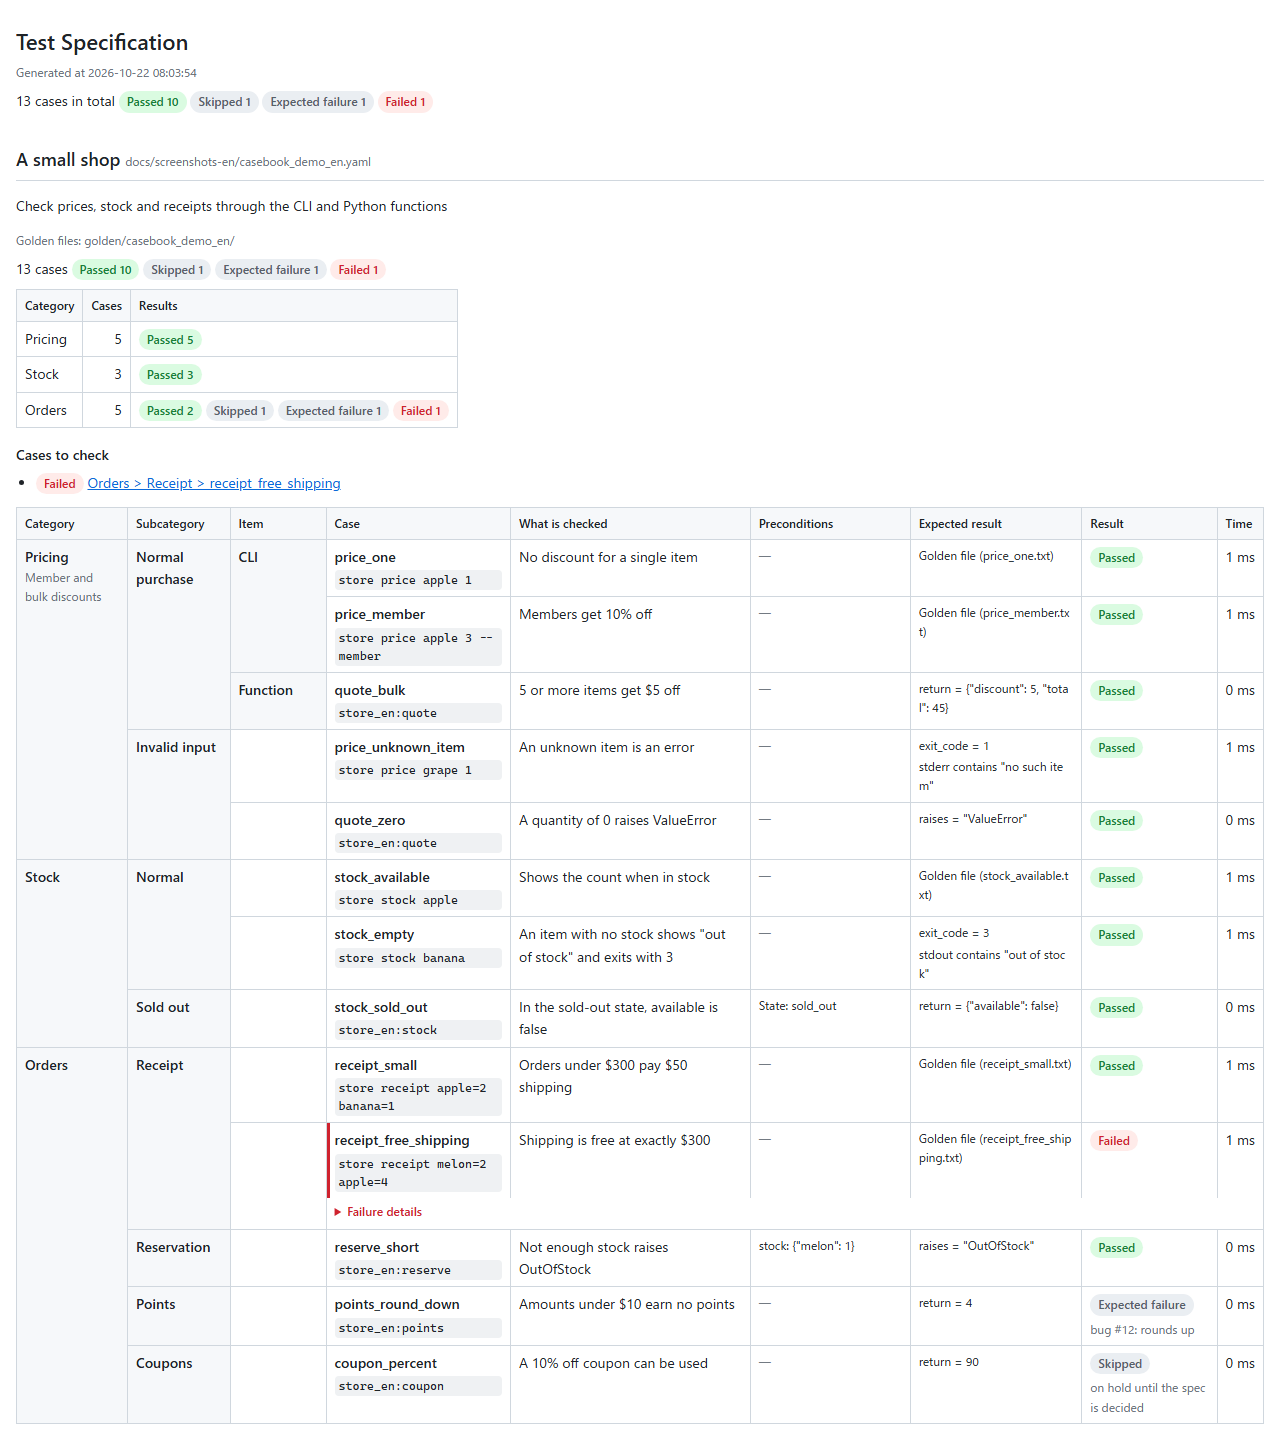
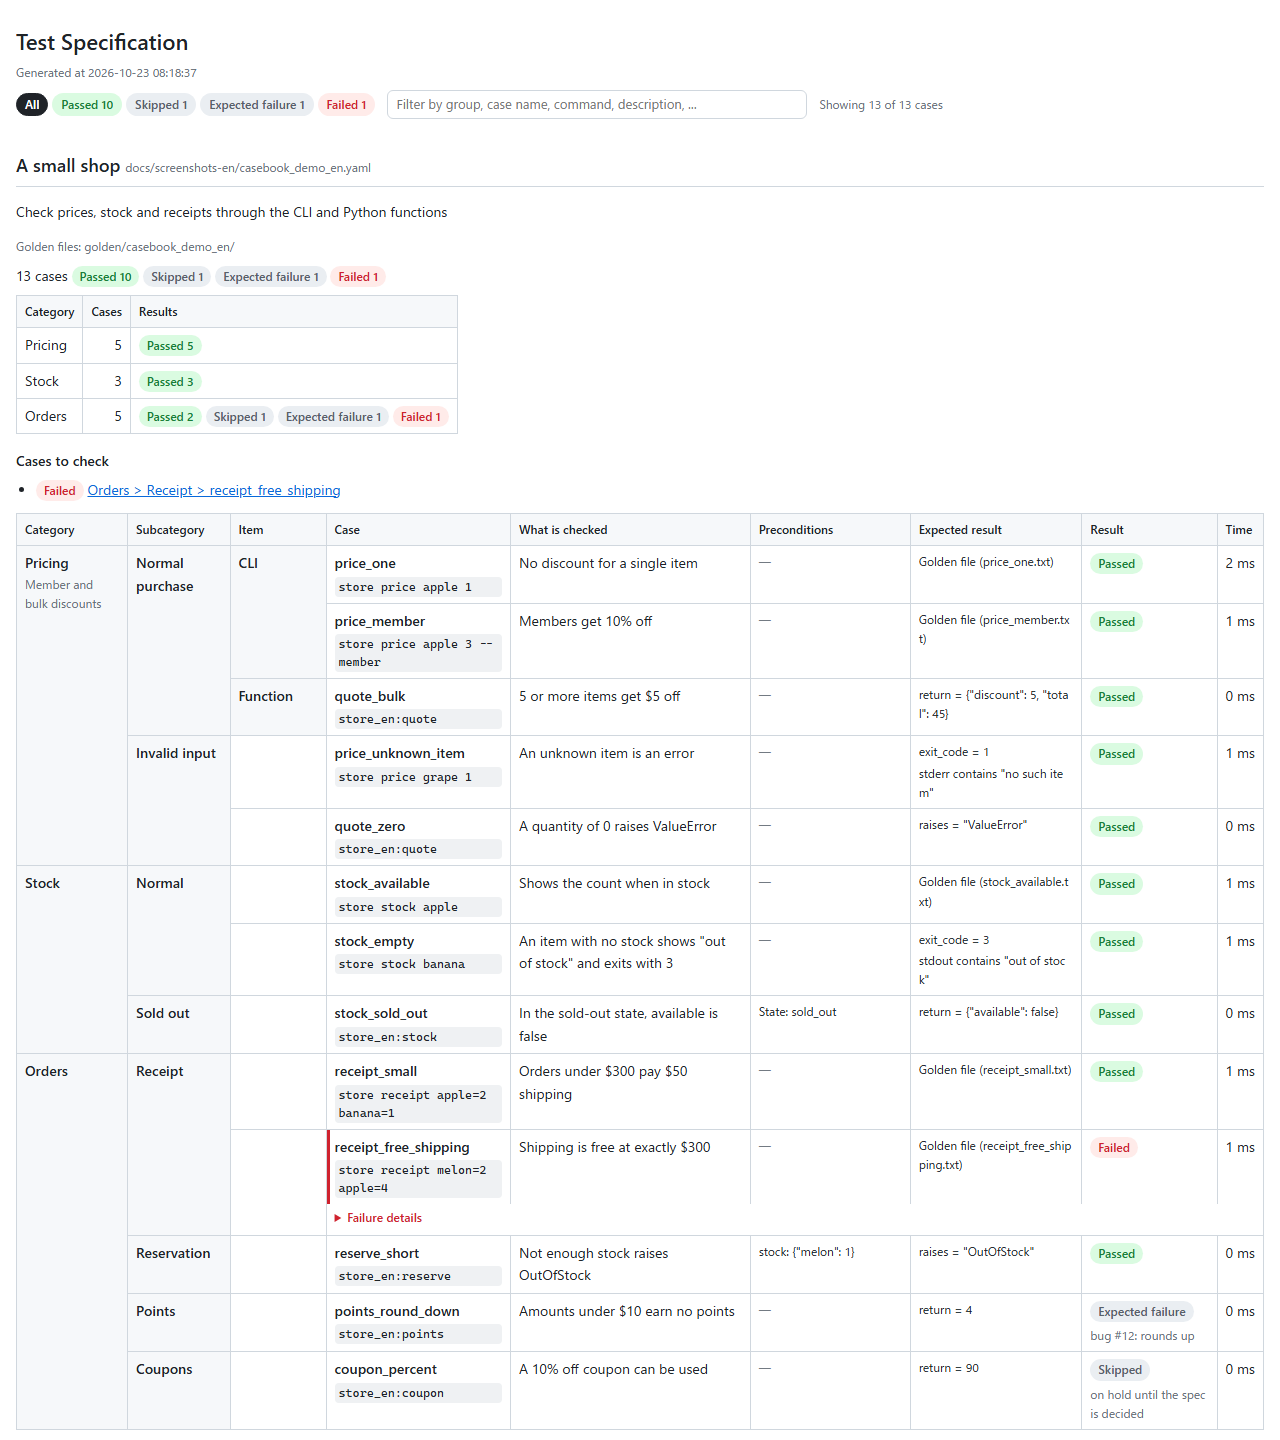
pytest-casebook: filter the HTML report by result and by text (#15)
With hundreds of cases the report was hard to scan. The header now has
a filter bar: toggle buttons for each result that occurs (click Failed
to show only failed cases, click more to add them, "All" to reset) and
a text box that keeps the cases whose groups, name, command,
description, preconditions, expected results or skip reason contain
the words (case-insensitive, all words must match). A file whose cases
all disappear is hidden; per-file counts still describe the whole run,
and the bar shows "Showing N of M cases" / "No matching cases".

The group columns are merged with rowspan, so hiding rows with
display: none would break the table. Instead the embedded script
records, once, which group cell covers each case row, and on every
change detaches all group cells, puts only the matching rows (with
their failure-detail rows) back into the tbody, and returns each cell
to the first visible row it covers with rowspan = the number of visible
rows it covers. The original cells are reused, so clearing the filter
restores the exact original table.

The report stays a single self-contained HTML file (inline vanilla JS
and CSS). The bar is rendered with the hidden attribute and is shown
only by the script, so without JavaScript the report looks as before.
Case rows gain data-outcome and data-text attributes, so two tests
that matched "<tr id=... class='...'>" now allow extra attributes. New
labels are in TEXTS for ja and en. README screenshots regenerated.
[…]

diff --git a/src/pytest_casebook/report.py b/src/pytest_casebook/report.py
@@ -8,6 +8,8 @@
 - 階層の列を縦に結合した表（ケース名・実行内容・確認内容・前提条件・期待結果・結果・時間）
 
 を1つの HTML ファイルに出力する（外部のファイルを読まない）。
+ページの上部には、結果と文字で表を絞り込む欄を出す（埋め込みの JavaScript で動かし、
+JavaScript が動かなければ表の全体を出す）。
 """
 
 from __future__ import annotations
@@ -242,7 +244,11 @@ def _case_table(texts: dict[str, Any], rows: list[CaseRow], labels: list[str]) -
         cells.append(f"<td class='result'>{_badge(texts, row.outcome)}{note}</td>")
         duration = "—" if row.outcome == "notrun" else f"{row.duration * 1000:.0f} ms"
         cells.append(f"<td class='num'>{duration}</td>")
-        lines.append(f"<tr id='{_row_id(row)}' class='{row.outcome}'>{''.join(cells)}</tr>")
+        # data-outcome と data-text は、ページ上部の絞り込み（_JS）が使う
+        lines.append(
+            f"<tr id='{_row_id(row)}' class='{row.outcome}' data-outcome='{row.outcome}'"
+            f" data-text='{_e(_search_text(row))}'>{''.join(cells)}</tr>"
+        )
         if row.details:
             # 詳細は表の幅いっぱいの行に出す（差分の長い行で列の幅が広がらないように）
             details = "".join(
@@ -256,6 +262,58 @@ def _case_table(texts: dict[str, Any], rows: list[CaseRow], labels: list[str]) -
     return (
         "<div class='scroll'><table class='cases'><thead><tr>"
         f"{head}</tr></thead><tbody>{''.join(lines)}</tbody></table></div>"
+    )
+
+
+def _search_text(row: CaseRow) -> str:
+    """
+    文字での絞り込みの対象にする、1件のケースの文字。
+
+    グループの列は縦に結合していて、2件目以降の行にはセルがないので、
+    グループの名前と説明もここに入れる。
+    """
+    meta = row.meta
+    parts = [
+        *meta["path"],
+        *meta["path_descriptions"],
+        meta["name"],
+        meta["run"],
+        meta["description"],
+        *meta["precondition"],
+        *meta["expected"],
+        row.note,
+    ]
+    return "\n".join(str(part) for part in parts if part)
+
+
+def _filter_bar(texts: dict[str, Any], rows: list[CaseRow]) -> str:
+    """
+    ページ上部の絞り込み（結果の切り替えと、文字の入力欄）。
+
+    JavaScript が動くときだけ出す（hidden を外す）。JavaScript が動かなければ、
+    今までどおり件数だけを出し、表は全部見える。
+    """
+    counts = Counter(r.outcome for r in rows)
+    all_button = (
+        '<button type="button" class="badge all" data-outcome="" aria-pressed="true">'
+        f"{_e(texts['filter_all'])}</button>"
+    )
+    buttons = [all_button]
+    buttons += [
+        f'<button type="button" class="badge {o}" data-outcome="{o}" aria-pressed="false">'
+        f"{_e(texts['outcomes'][o])} {counts[o]}</button>"
+        for o in OUTCOMES
+        if counts[o]
+    ]
+    return (
+        '<div class="filter" hidden>'
+        f'<div class="toggles" role="group" aria-label="{_e(texts["result"])}">'
+        f"{''.join(buttons)}</div>"
+        f'<input type="search" aria-label="{_e(texts["filter"])}"'
+        f' placeholder="{_e(texts["filter_placeholder"])}">'
+        f'<span class="shown muted" aria-live="polite"'
+        f' data-template="{_e(texts["filter_shown"])}" data-none="{_e(texts["filter_none"])}">'
+        "</span></div>"
     )
 
 
@@ -332,8 +390,10 @@ def build_html(
 <h1>{_e(title)}</h1>
 <div class="muted">{_e(generated)}</div>
 <div class="counts">{_e(texts["total"].format(n=len(rows)))} {_counts(texts, rows)}</div>
+{_filter_bar(texts, rows)}
 </header>
 <main>{sections}</main>
+<script>{_JS}</script>
 </body>
 </html>
 """
@@ -345,7 +405,7 @@ _CSS = """
   --group: #f6f8fa; --code: #eff1f3;
   --ok: #1a7f37; --ok-bg: #dafbe1; --ng: #cf222e; --ng-bg: #ffebe9;
   --warn: #9a6700; --warn-bg: #fff8c5; --info: #0969da; --info-bg: #ddf4ff;
-  --skip: #57606a; --skip-bg: #eaeef2;
+  --skip: #57606a; --skip-bg: #eaeef2; color-scheme: light;
 }
 @media (prefers-color-scheme: dark) {
   :root:not([data-theme="light"]) {
@@ -353,7 +413,7 @@ _CSS = """
     --group: #161b22; --code: #1f242c;
     --ok: #3fb950; --ok-bg: #12261e; --ng: #f85149; --ng-bg: #2d1416;
     --warn: #d29922; --warn-bg: #2b2111; --info: #58a6ff; --info-bg: #121d2f;
-    --skip: #8d96a0; --skip-bg: #21262d;
+    --skip: #8d96a0; --skip-bg: #21262d; color-scheme: dark;
   }
 }
 :root[data-theme="dark"] {
@@ -361,7 +421,7 @@ _CSS = """
   --group: #161b22; --code: #1f242c;
   --ok: #3fb950; --ok-bg: #12261e; --ng: #f85149; --ng-bg: #2d1416;
   --warn: #d29922; --warn-bg: #2b2111; --info: #58a6ff; --info-bg: #121d2f;
-  --skip: #8d96a0; --skip-bg: #21262d;
+  --skip: #8d96a0; --skip-bg: #21262d; color-scheme: dark;
 }
 * { box-sizing: border-box; }
 body {
@@ -424,4 +484,127 @@ pre .diff-file { color: var(--muted); }
 .problems { margin: 8px 0 12px; }
 .problems ul { margin: 0; padding-left: 20px; }
 a { color: var(--info); }
+[hidden] { display: none !important; }
+.filter { display: flex; flex-wrap: wrap; align-items: center; gap: 8px 12px; margin: 8px 0; }
+.filter .toggles { display: flex; flex-wrap: wrap; gap: 4px; }
+.filter button.badge {
+  font-family: inherit; line-height: 1.6; cursor: pointer; border: 1px solid transparent;
+}
+.filter button.badge.notrun { border: 1px dashed var(--line); }
+.filter button.badge.all { color: var(--fg); background: var(--bg); border-color: var(--line); }
+.filter button.badge.all[aria-pressed="true"] {
+  color: var(--bg); background: var(--fg); border-color: var(--fg);
+}
+.filter button.badge[aria-pressed="true"]:not(.all) { border: 1px solid currentColor; }
+.filter.active button.badge[aria-pressed="false"]:not(.all) { opacity: .4; }
+.filter button.badge:focus-visible { outline: 2px solid var(--info); outline-offset: 1px; }
+.filter input {
+  flex: 1 1 240px; max-width: 420px; padding: 3px 8px; border: 1px solid var(--line);
+  border-radius: 6px; background: var(--bg); color: var(--fg); font: inherit; font-size: 13px;
+}
+.filter input:focus { outline: 2px solid var(--info); outline-offset: -1px; }
+"""
+
+# ページ上部の絞り込み。外部のファイルを読まず、HTML に埋め込む。
+#
+# 階層の列は rowspan で縦に結合しているので、行を display: none で隠すだけでは表が崩れる
+# （結合したセルを持つ行を隠すと、そのセルごと消えて、下の行の列がずれる）。そこで、
+# 1. 最初に、各ケースの行がどの階層のセルに覆われているかを、rowspan をたどって覚える
+# 2. 絞り込むたびに、階層のセルをすべて外し、条件に合う行だけを tbody に並べ直す
+# 3. 同じセルに覆われた行が続くところ（同じグループ）は、その最初の行にセルを戻し、
+#    rowspan を見えている行の数（失敗の詳細の行も数える）にする
+# 元のセルをそのまま使い回すので、絞り込みを外すと最初の表とまったく同じになる。
+# 失敗の詳細の行は、ケースの行と一緒に出し入れする。
+_JS = r"""
+(() => {
+  const bar = document.querySelector("header .filter");
+  if (!bar) return;
+  const input = bar.querySelector("input");
+  const buttons = Array.from(bar.querySelectorAll("button"));
+  const shown = bar.querySelector(".shown");
+  const selected = new Set();
+  const tables = Array.from(document.querySelectorAll("table.cases")).map((table) => {
+    const depth = table.tHead.querySelectorAll("th.level").length;
+    const body = table.tBodies[0];
+    const cover = [];
+    const cases = [];
+    for (const tr of Array.from(body.rows)) {
+      if (tr.classList.contains("detail")) {
+        cases[cases.length - 1].detail = tr;
+      } else {
+        let next = 0;
+        const cells = [];
+        for (let level = 0; level < depth; level++) {
+          if (!cover[level] || cover[level].left === 0) {
+            const cell = tr.cells[next++];
+            cover[level] = { cell, left: cell.rowSpan };
+          }
+          cells.push(cover[level].cell);
+        }
+        const text = (tr.dataset.text || "").toLowerCase();
+        cases.push({ tr, detail: null, cells, outcome: tr.dataset.outcome, text });
+      }
+      cover.forEach((c) => c.left--);
+    }
+    const cells = new Set(cases.flatMap((c) => c.cells));
+    return { section: table.closest("section"), body, cases, cells };
+  });
+
+  const apply = () => {
+    const words = input.value.toLowerCase().split(/\s+/).filter(Boolean);
+    const match = (c) =>
+      (selected.size === 0 || selected.has(c.outcome)) && words.every((w) => c.text.includes(w));
+    let count = 0;
+    let total = 0;
+    for (const t of tables) {
+      t.cells.forEach((cell) => cell.remove());
+      const rows = [];
+      const last = [];
+      const visible = t.cases.filter(match);
+      for (const c of visible) {
+        const height = c.detail ? 2 : 1;
+        const starts = [];
+        c.cells.forEach((cell, level) => {
+          if (last[level] === cell) {
+            cell.rowSpan += height;
+          } else {
+            last[level] = cell;
+            cell.rowSpan = height;
+            starts.push(cell);
+          }
+        });
+        c.tr.prepend(...starts);
+        rows.push(c.tr);
+        if (c.detail) rows.push(c.detail);
+      }
+      t.body.replaceChildren(...rows);
+      if (t.section) t.section.hidden = rows.length === 0;
+      count += visible.length;
+      total += t.cases.length;
+    }
+    shown.textContent =
+      count === 0
+        ? shown.dataset.none
+        : shown.dataset.template.replace("{shown}", count).replace("{total}", total);
+    bar.classList.toggle("active", selected.size > 0);
+    for (const b of buttons) {
+      const o = b.dataset.outcome;
+      b.setAttribute("aria-pressed", String(o ? selected.has(o) : selected.size === 0));
+    }
+  };
+
+  bar.addEventListener("click", (event) => {
+    const button = event.target.closest("button");
+    if (!button) return;
+    const o = button.dataset.outcome;
+    if (!o) selected.clear();
+    else if (selected.has(o)) selected.delete(o);
+    else selected.add(o);
+    apply();
+  });
+  input.addEventListener("input", apply);
+  document.querySelector("header > .counts").hidden = true;
+  bar.hidden = false;
+  apply();
+})();
 """

diff --git a/tests/test_plugin.py b/tests/test_plugin.py
@@ -10,6 +10,8 @@ import textwrap
 import pytest
 from helpers import PY, golden, write_casebook
 
+from pytest_casebook.messages import LANGS, TEXTS
+
 # =============================================================================
 # 期待出力の作成と比較
 # =============================================================================
@@ -481,7 +483,8 @@ def test_html_report_has_levels_and_merged_cells(project: pytest.Pytester) -> No
     )
     # グループのないケースは階層の列が空になる
     empty = "<td class='level empty' rowspan='1'></td>"
-    assert re.search(rf"<tr id='case-\d+' class='passed'>({empty}){{3}}", page)
+    # 行の属性のあと（data-outcome・data-text は絞り込み用）に、空の階層のセルが3つ続く
+    assert re.search(rf"<tr id='case-\d+' class='passed'[^>]*>({empty}){{3}}", page)
     # 失敗の一覧と、表の幅いっぱいの詳細の行
     assert "確認が必要なケース" in page
     assert "計算 &gt; 割り算 &gt; div" in page
@@ -524,6 +527,67 @@ def test_html_report_in_english(project: pytest.Pytester) -> None:
     assert '<span class="badge passed">Passed 2</span>' in page
     assert "3 cases in total" not in page  # golden_orphans はレポートに出ない
     assert "2 cases in total" in page
+
+
+@pytest.mark.parametrize("lang", LANGS)
+def test_html_report_has_filter(project: pytest.Pytester, lang: str) -> None:
+    """ページ上部に、結果と文字での絞り込みが出る（文言は casebook_lang に合わせる）。"""
+    write_casebook(
+        project,
+        """
+        cases:
+          - group: Arithmetic
+            description: four operations
+            cases:
+              - {name: add, call: "calc:add", args: [1, 2], description: one plus two}
+              - {name: wrong, call: "calc:add", args: [1, 2], expect: {return: 4}}
+          - {name: plain, call: "calc:add", args: [0, 0], skip: not yet}
+        """,
+    )
+    project.runpytest("--casebook-update")
+    report = project.path / "report.html"
+    project.runpytest("-o", f"casebook_lang={lang}", f"--casebook-html={report}")
+    page = report.read_text(encoding="utf-8")
+    texts = TEXTS[lang]
+
+    # JavaScript が動かなければ、絞り込みは隠れたまま（今までどおりの件数と表が出る）
+    assert '<div class="filter" hidden>' in page
+    assert f'<span class="badge failed">{texts["outcomes"]["failed"]} 1</span>' in page
+    # 「すべて」と、実際にある結果だけの切り替え
+    assert f'data-outcome="" aria-pressed="true">{texts["filter_all"]}</button>' in page
+    for outcome in ("passed", "skipped", "failed"):
+        label = texts["outcomes"][outcome]
+        assert f'data-outcome="{outcome}" aria-pressed="false">{label} 1</button>' in page
+    assert 'data-outcome="error"' not in page
+    assert f'aria-label="{texts["filter"]}"' in page
+    assert f'placeholder="{texts["filter_placeholder"]}"' in page
+    assert f'data-template="{texts["filter_shown"]}"' in page
+    assert f'data-none="{texts["filter_none"]}"' in page
+    assert "<script>" in page
+    if lang == "en":
+        assert not JAPANESE.search(page)
+
+    # 行には、結果と、絞り込みの対象の文字（縦に結合したグループの名前と説明も）を持たせる
+    rows = dict(re.findall(r"data-outcome='(\w+)' data-text='([^']*)'", page))
+    assert set(rows) == {"passed", "failed", "skipped"}
+    assert rows["passed"].split("\n")[:4] == ["Arithmetic", "four operations", "add", "calc:add"]
+    assert "one plus two" in rows["passed"]
+    assert "return = 4" in rows["failed"]
+    assert "not yet" in rows["skipped"]  # スキップの理由も探せる
+    # 失敗の詳細の行は今までどおり（JavaScript がケースの行と一緒に出し入れする）
+    assert page.count("<tr class='detail failed'><td colspan='6'>") == 1
+
+
+def test_html_report_is_self_contained(project: pytest.Pytester) -> None:
+    """HTML は1つのファイルで完結する（外部のスクリプト・スタイルを読まない）。"""
+    write_casebook(project, "cases:\n  - {name: add, call: calc:add, args: [1, 2]}\n")
+    project.runpytest("--casebook-update")
+    report = project.path / "report.html"
+    project.runpytest(f"--casebook-html={report}")
+    page = report.read_text(encoding="utf-8")
+    assert not re.search(r"<(script|link|img|iframe)\b[^>]*\b(src|href)\s*=", page, re.I)
+    assert not re.search(r"https?://", page)
+    assert "@import" not in page
 
 
 JAPANESE = re.compile("[぀-ヿ一-鿿]")
@@ -633,7 +697,7 @@ def test_cases_not_run_stay_in_the_report(project: pytest.Pytester) -> None:
     page = report.read_text(encoding="utf-8")
     assert "全 3 件" in page
     assert '<span class="badge notrun">未実施 1</span>' in page
-    assert re.search(r"<tr id='case-\d+' class='notrun'>.*?later", page)
+    assert re.search(r"<tr id='case-\d+' class='notrun'[^>]*>.*?later", page)
 
 
 def test_deselected_cases_are_not_in_the_report(project: pytest.Pytester) -> None:

diff --git a/src/pytest_casebook/messages.py b/src/pytest_casebook/messages.py
@@ -40,6 +40,11 @@ TEXTS: dict[str, dict[str, Any]] = {
         "cases": "{n} 件",
         "total": "全 {n} 件",
         "generated": "{at} に作成",
+        "filter": "絞り込み",
+        "filter_all": "すべて",
+        "filter_placeholder": "グループ・ケース名・コマンド・確認内容などの文字で絞り込み",
+        "filter_shown": "{shown} / {total} 件を表示",
+        "filter_none": "条件に合うケースはありません",
         "written": "試験項目表（HTML）: {path}",
         "state": "状態: {state}",
         "files": "ファイル: {files}",
@@ -80,6 +85,11 @@ TEXTS: dict[str, dict[str, Any]] = {
         "cases": "{n} cases",
         "total": "{n} cases in total",
         "generated": "Generated at {at}",
+        "filter": "Filter",
+        "filter_all": "All",
+        "filter_placeholder": "Filter by group, case name, command, description, ...",
+        "filter_shown": "Showing {shown} of {total} cases",
+        "filter_none": "No matching cases",
         "written": "Test specification (HTML): {path}",
         "state": "State: {state}",
         "files": "Files: {files}",

diff --git a/README.md b/README.md
@@ -710,6 +710,8 @@ For each case file the report contains:
 - preconditions show non-default state names and the case's own `setup:`. Skip and known-bug reasons are shown under the result
 - the time only counts running the case (not session fixtures that build the environment)
 
+At the top of the page you can narrow the table down. Click a result (e.g. Failed) to show only those cases (click more results to add them, "All" to reset), and type in the box to keep only the cases whose group, case name, command, description, preconditions or expected results contain the text (case-insensitive; several words must all match). The merged group cells are rebuilt for the rows that remain, and files with no matching case are hidden. The per-file counts always describe the whole run. The report stays a single HTML file; without JavaScript the full table is shown.
+
 To submit "what will be checked" before testing, use it with `--collect-only`. The cases are not run, and every result is "Not run" (the precondition and expected result columns come from the YAML).
 
 ```bash
